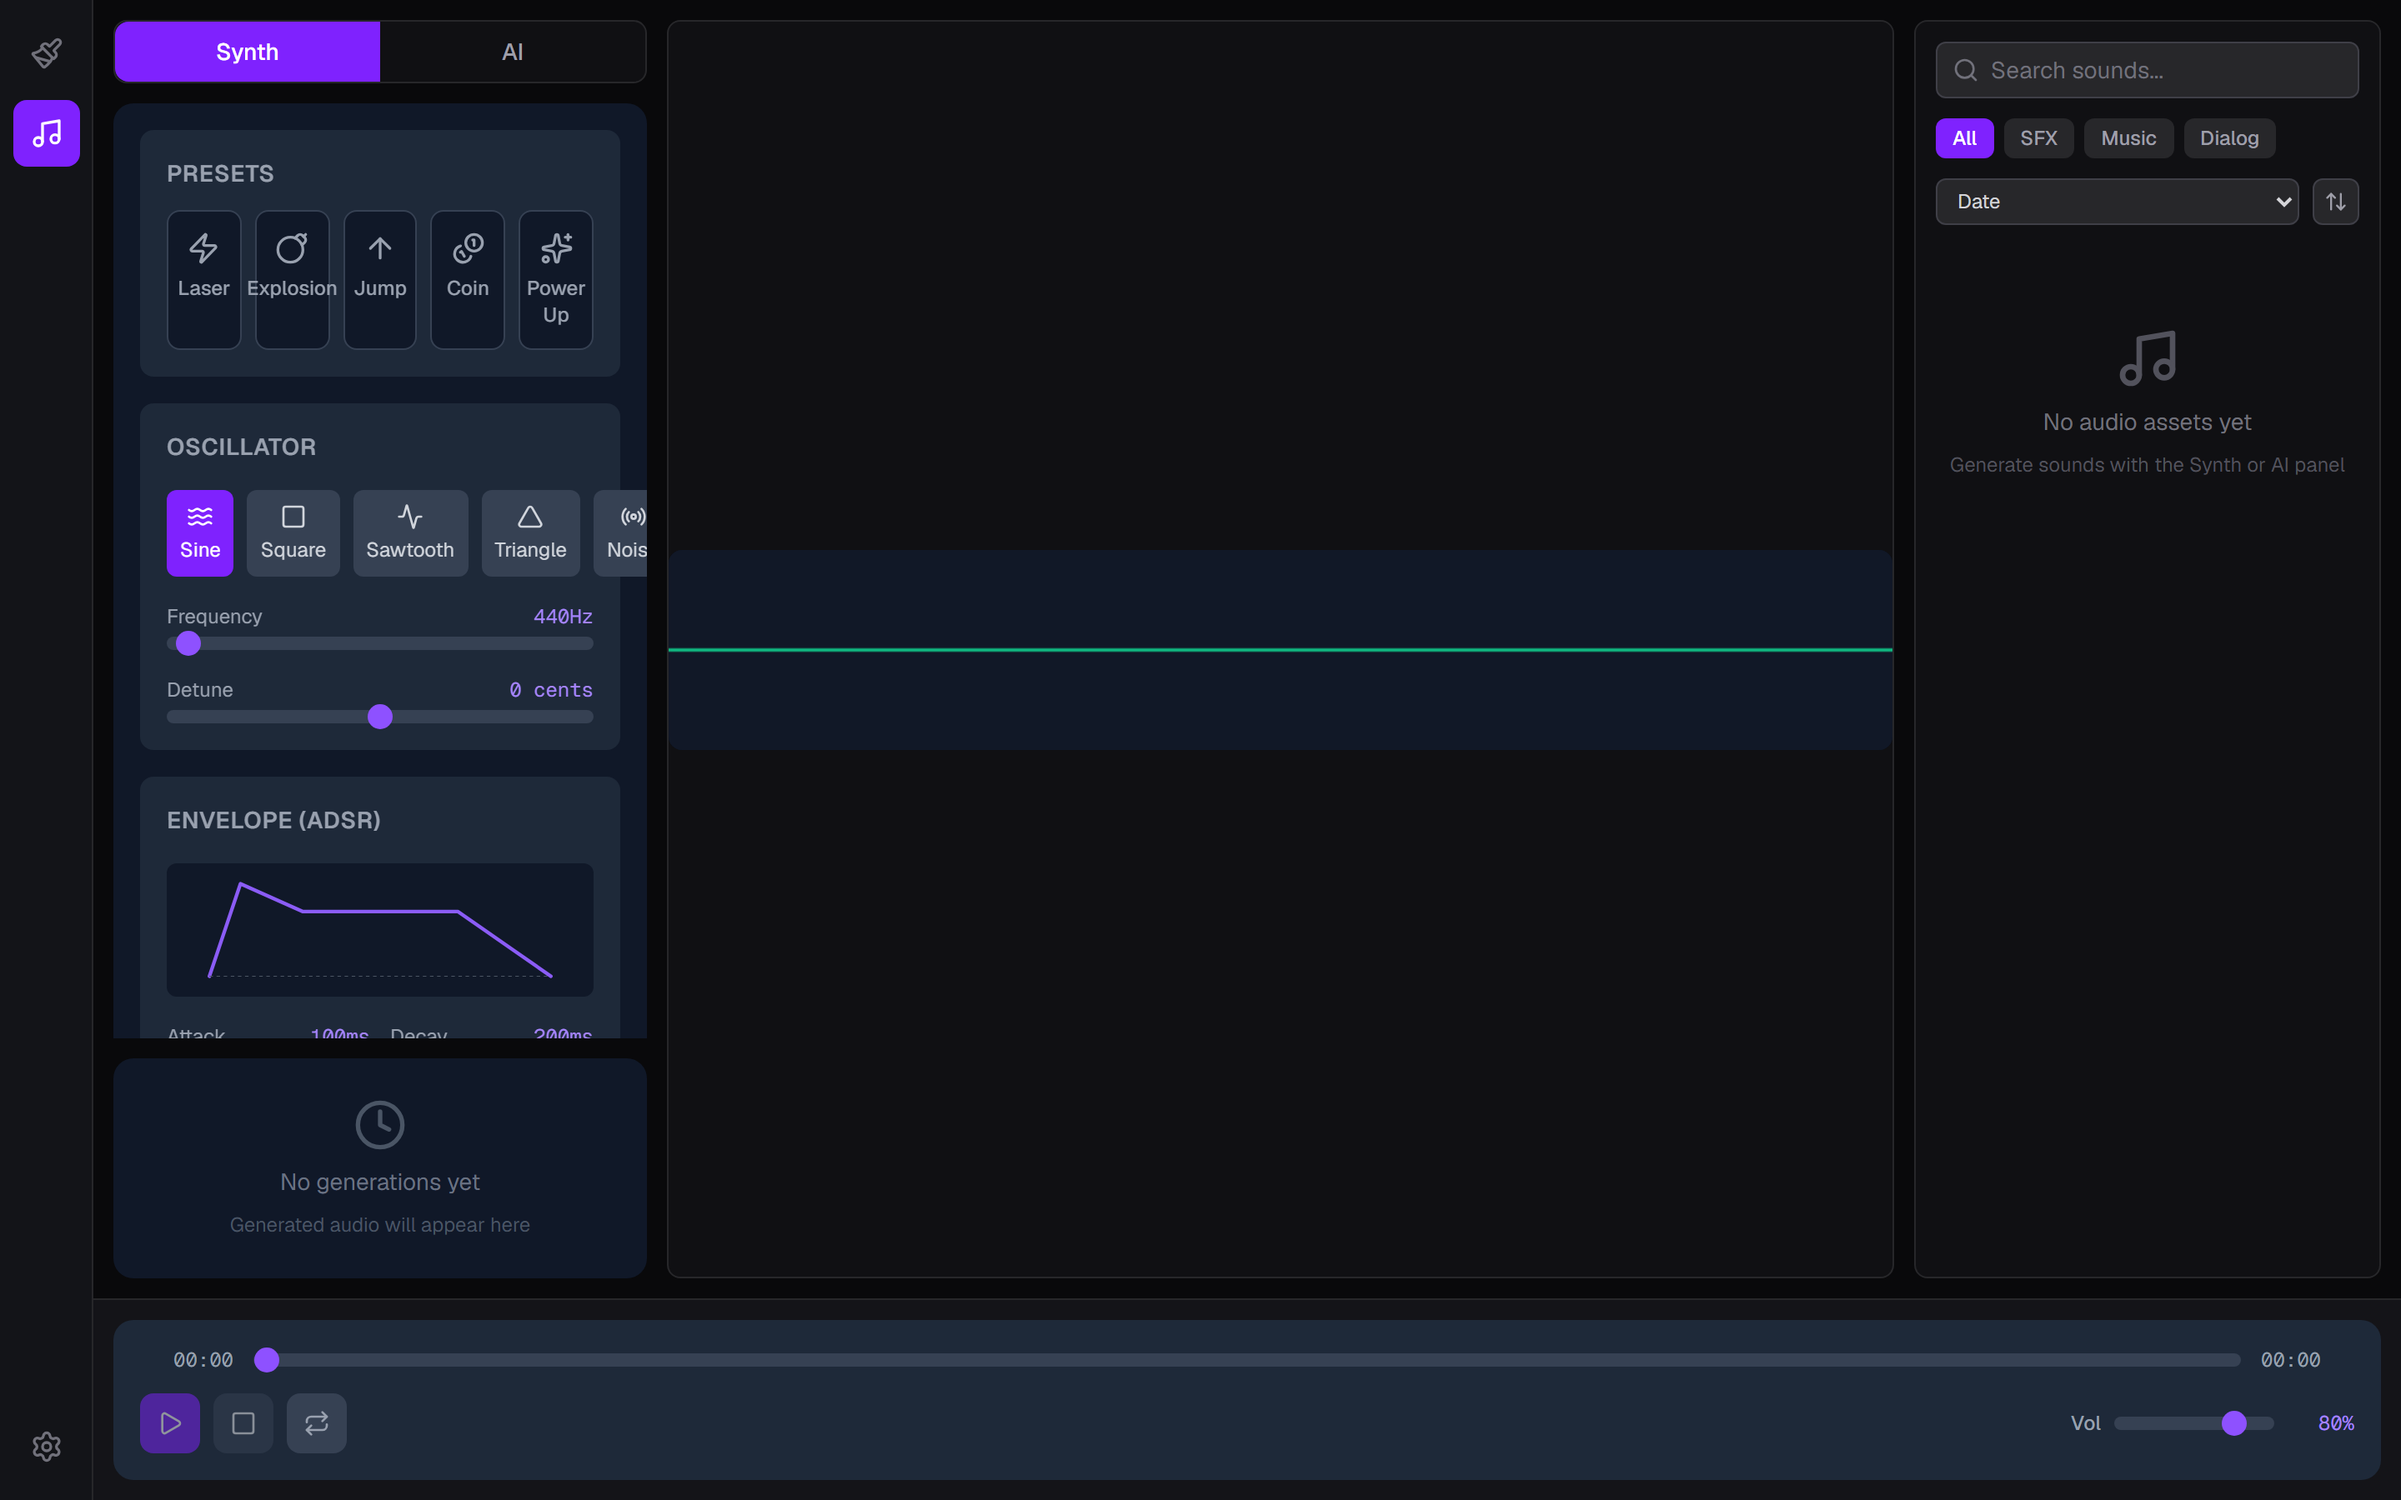
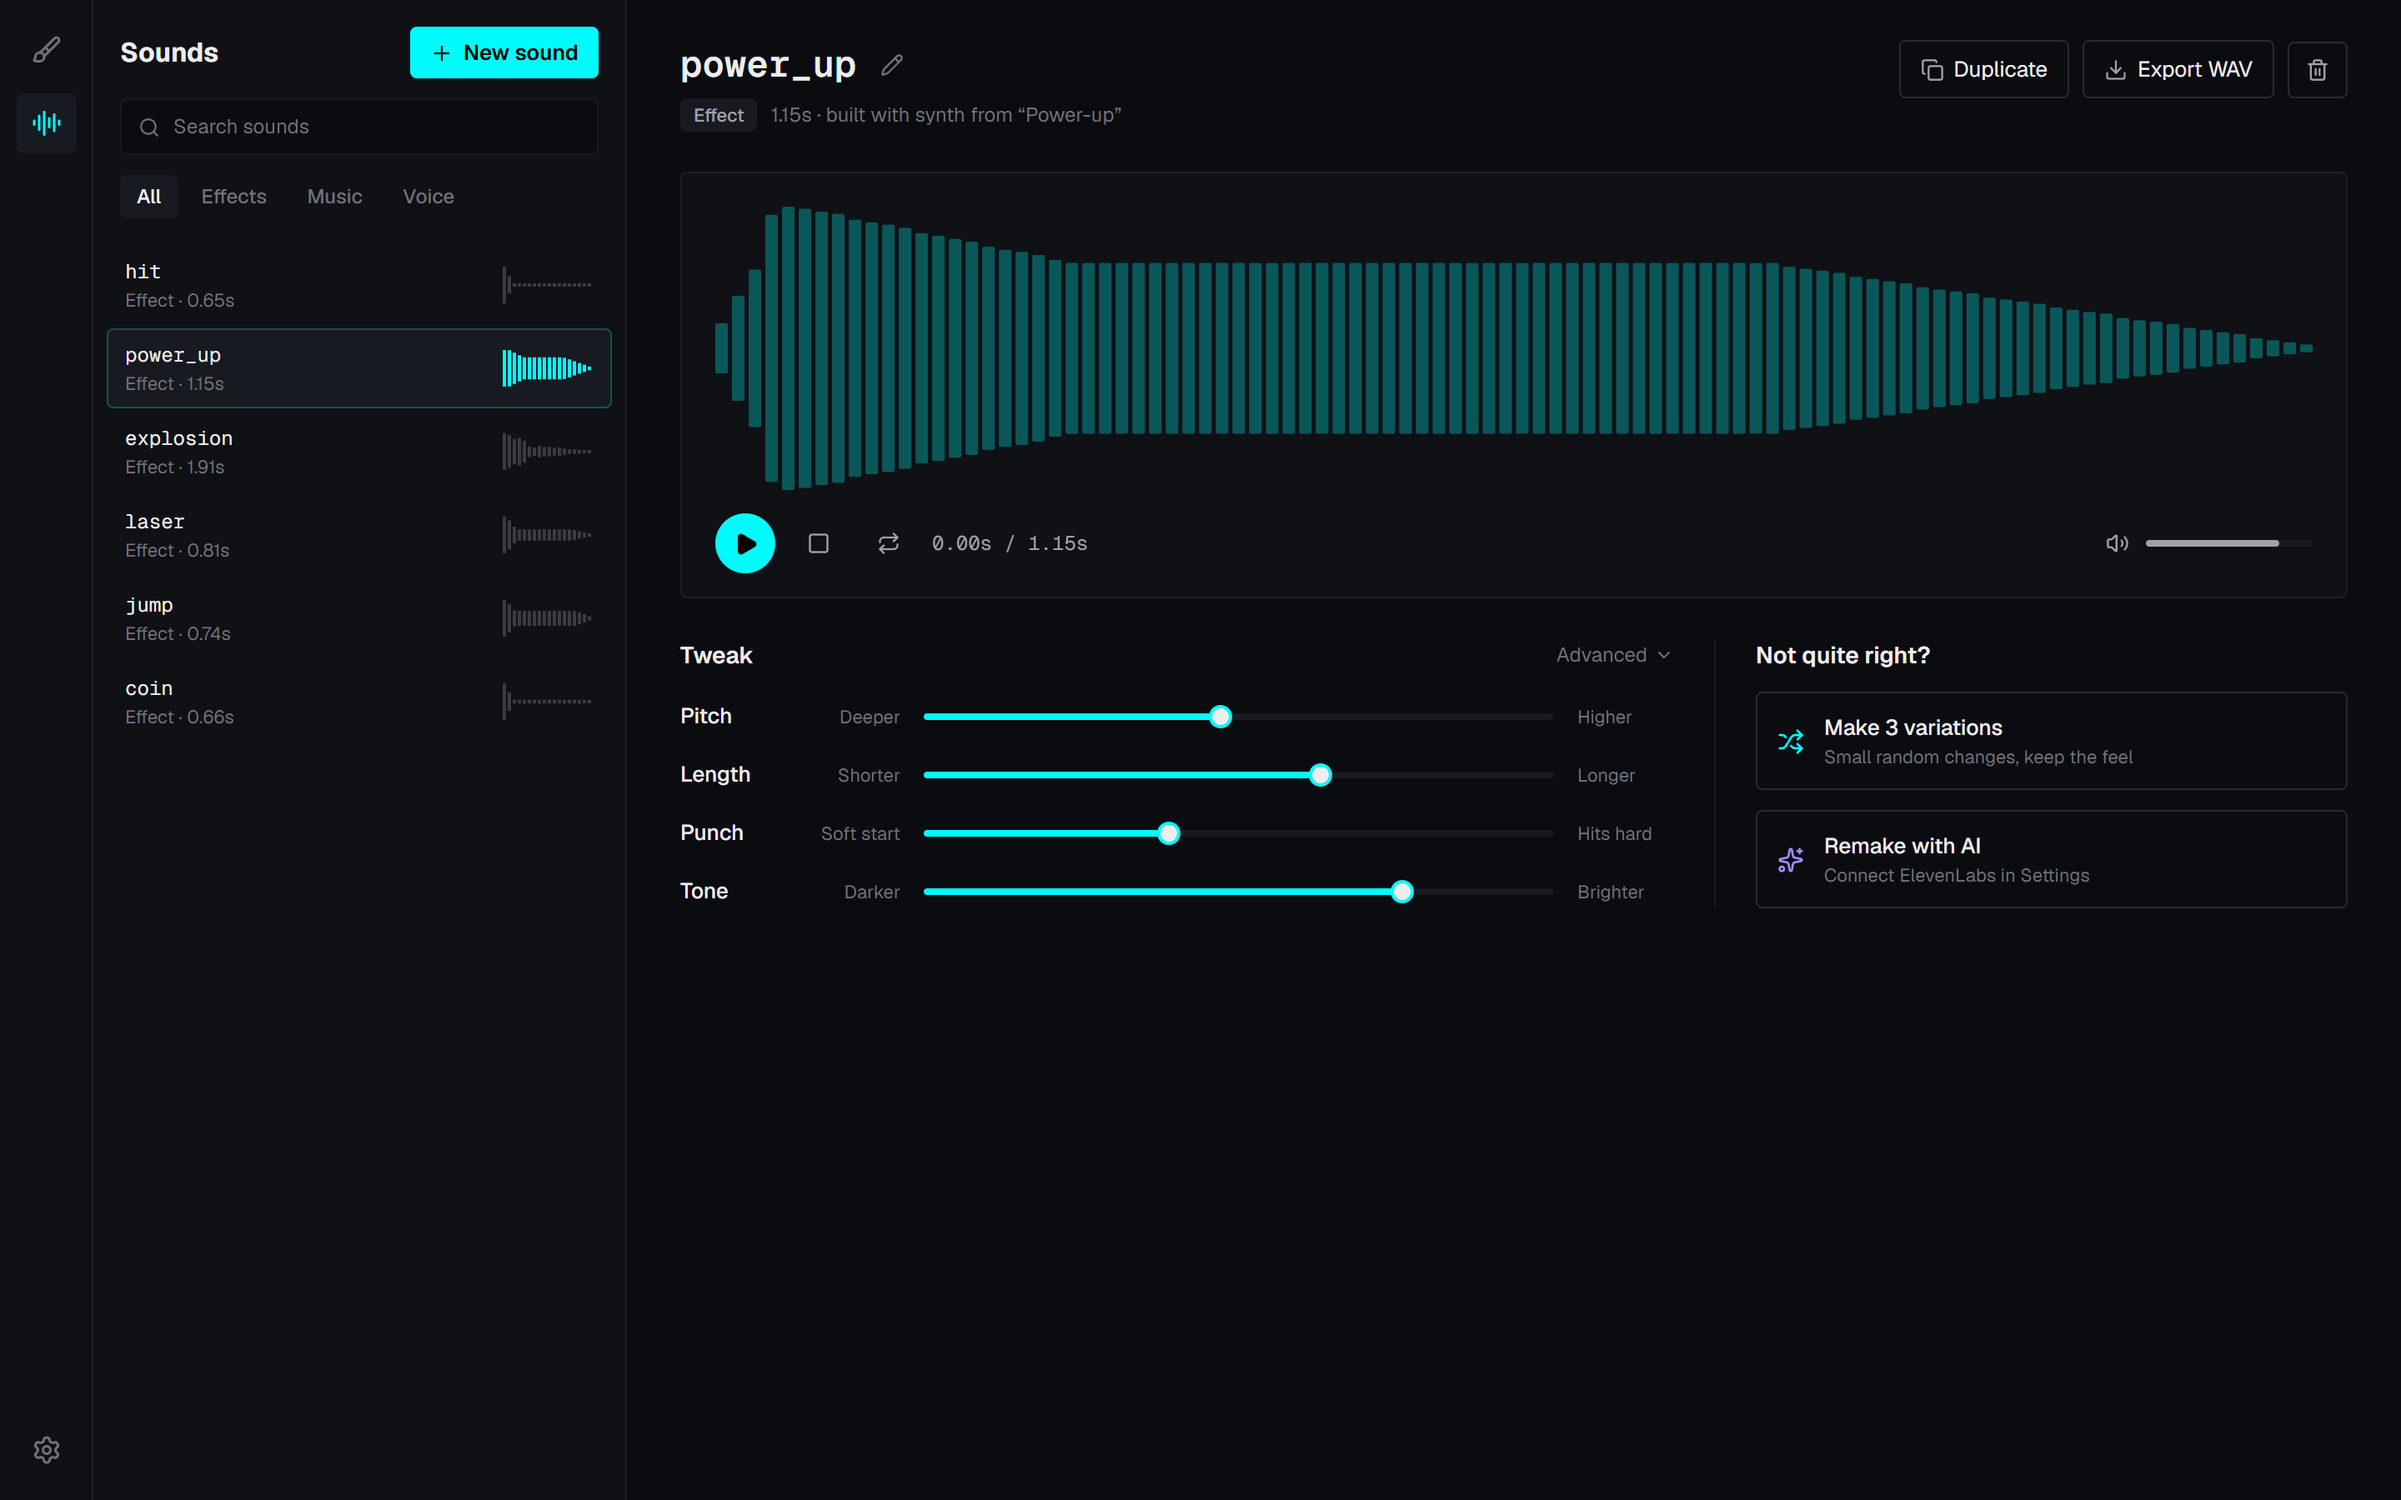
docs: update README sound editor screenshot and description

diff --git a/README.md b/README.md
@@ -31,11 +31,12 @@ prompt (Retro Diffusion), then drop results straight onto the canvas.
   <img src="docs/images/ai-generation.png" alt="PixelForge AI sprite generation panel with recent generations" width="100%">
 </p>
 
-**Sound editor** — a synthesizer (oscillator, envelope, filter, presets), an
-asset library and playback/transport, plus AI-generated sound effects.
+**Sound editor** — a searchable sound library, one-click presets, a big
+waveform with transport, plain-language tweaks (pitch, length, punch, tone),
+random variations, and AI-generated effects, music and voice.
 
 <p align="center">
-  <img src="docs/images/sound-editor.png" alt="PixelForge sound editor: synth controls, waveform view and asset library" width="100%">
+  <img src="docs/images/sound-editor.png" alt="PixelForge sound editor: sound library, waveform with transport, tweak sliders and variations" width="100%">
 </p>
 
 ## What works today
@@ -44,9 +45,10 @@ asset library and playback/transport, plus AI-generated sound effects.
   onion skinning, frame-by-frame animation, palette management, multi-format
   export. Manual drawing **and** AI-generated sprites (Retro Diffusion) and
   AI animation cycles from a single reference frame.
-- **Sound editor** — a synthesizer (oscillator, envelope, filter, presets),
-  an asset library, playback/transport, and AI-generated sound effects
-  (ElevenLabs).
+- **Sound editor** — a sound library with search and filters, presets, a
+  waveform with transport, simple tweak sliders on top of the synthesizer
+  (oscillator, envelope, filter), variations, WAV export, and AI-generated
+  sounds (ElevenLabs).
 - **Local-first persistence** — drafts autosave to IndexedDB; nothing is lost
   on reload, no account required.
 - **A Rust/Wasm core migration, mid-flight** — the pixel engine is being moved
